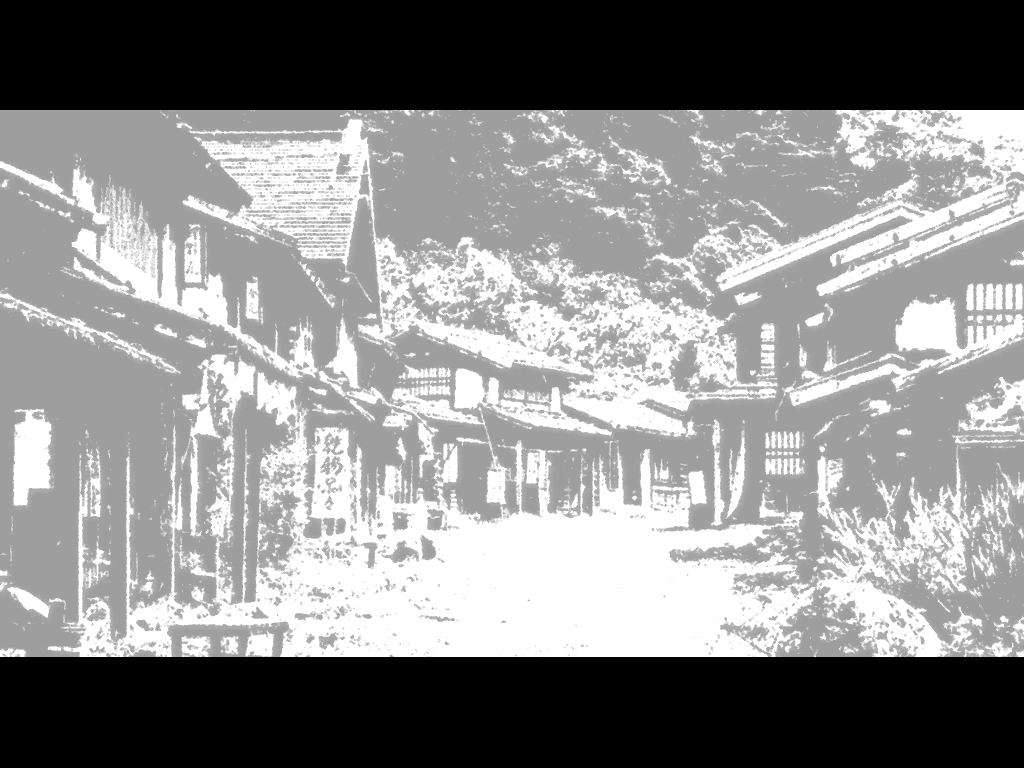
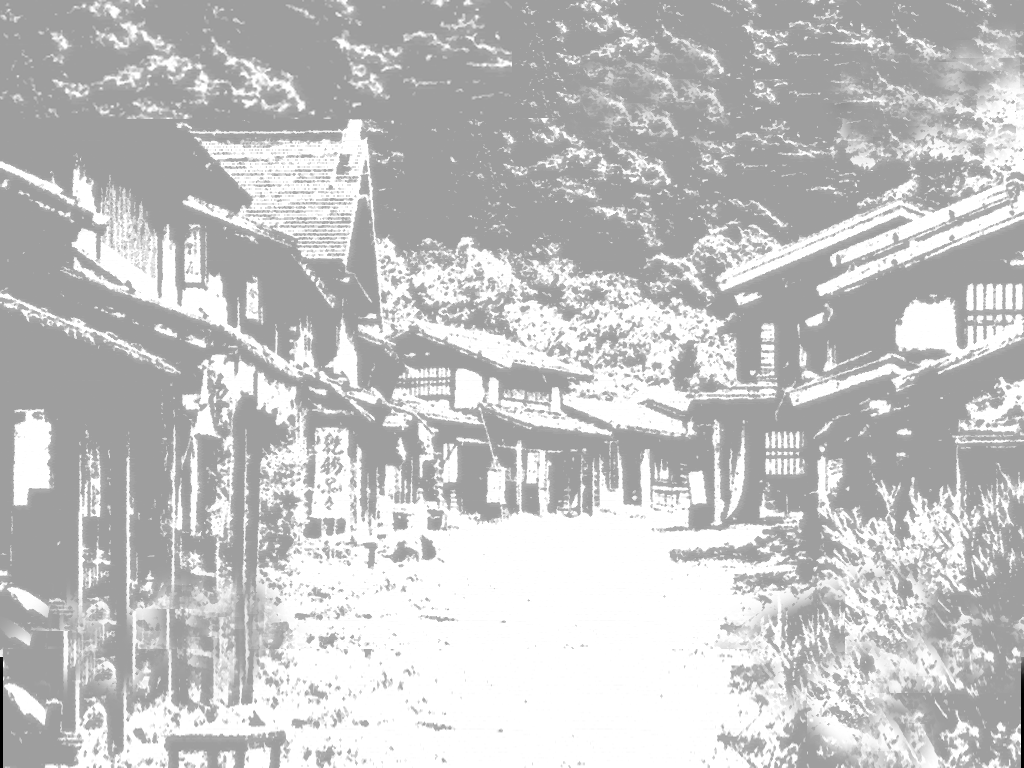
V0.4

diff --git a/1/2/style2.css b/1/2/style2.css
@@ -9,10 +9,21 @@ main {
     height: 768px;
     background-color: gainsboro;
     position: relative;
-    background-image: url(scn1_background.png);
+    background-image: url(scn2_background.png);
     background-repeat: no-repeat;
     background-size: auto;
+     animation-name: fade_in_all;
+    animation-duration: 1.9s;
+    animation-delay: 0s;
+    animation-iteration-count: 1;
+    animation-fill-mode: forwards;
+    
 }
+
+@keyframes fade_in_all {
+     from {opacity: 0;}
+    to {opacity: 1}
+    }
 .div_contenedor{
     opacity: 0;
     animation-name: fade_in2;

diff --git a/1/index1.html b/1/index1.html
@@ -13,7 +13,7 @@
             <div class="div_contenedor">
                 <h1>Texto texto <br/>bla bla blah </h1>
                 <form>
-                    <input class="boton_next" type="button" value="Next" onclick="window.location.href='2/index2.html'" /> Start
+                    <input class="boton_next" type="button" value="Next" onclick="window.location.href='2/index2.html'" /> 
                 </form>
             </div>
             <img src="scn1_heroe.png" alt='heroe'>

diff --git a/1/style1.css b/1/style1.css
@@ -12,6 +12,18 @@ main {
     background-image: url(scn1_background.png);
     background-repeat: no-repeat;
     background-size: auto;
+    animation-name: fade_in_all;
+    animation-duration: 1.9s;
+    animation-delay: 0s;
+    animation-iteration-count: 1;
+    animation-fill-mode: forwards;
+    
+}
+
+@keyframes fade_in_all {
+     from {opacity: 0;}
+    to {opacity: 1}
+    }
 }
 .div_contenedor{
     opacity: 0;

diff --git a/1/2/index2.html b/1/2/index2.html
@@ -16,7 +16,7 @@
                     <input class="boton_next" type="button" value="Next" onclick="window.location.href='1/index1.html'" /> Start
                 </form>
             </div>
-            <img src="scn1_heroe.png" alt='heroe'>
+            <img src="scn2_heroe.png" alt='heroe'>
         </div>
     </main>
 
